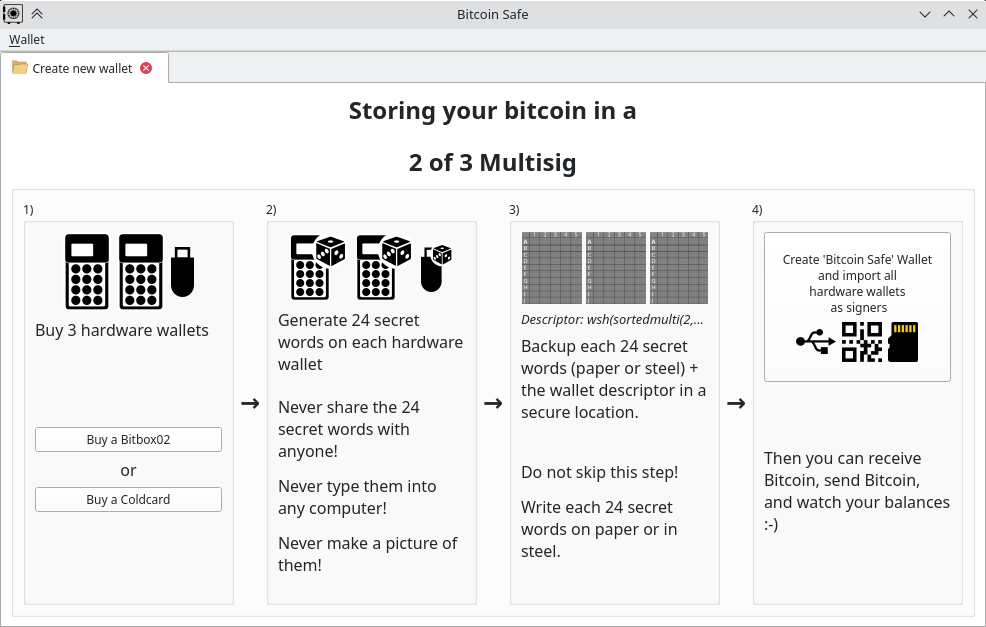
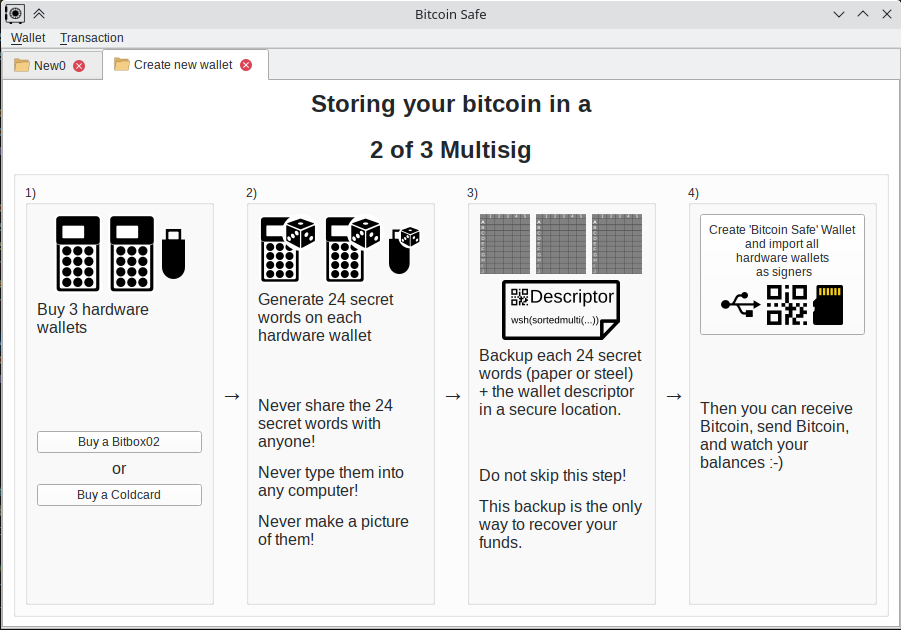
better gui

diff --git a/bitcoin_safe/main.py b/bitcoin_safe/main.py
@@ -51,7 +51,6 @@ class MainWindow(Ui_MainWindow, MessageBoxMixin):
         self.blockchain_type = BlockchainType.CompactBlockFilter
         
         self.welcome_screen = NewWalletWelcomeScreen(self.tab_wallets, network=self.network)
-        self.welcome_screen.add_new_wallet_welcome_tab()
         self.welcome_screen.signal_onclick_single_signature.connect(self.click_single_signature)
         self.welcome_screen.signal_onclick_multisig_signature.connect(self.click_multisig_signature)
         self.welcome_screen.signal_onclick_custom_signature.connect(self.click_custom_signature)
@@ -61,8 +60,9 @@ class MainWindow(Ui_MainWindow, MessageBoxMixin):
         self.signals.event_wallet_tab_added.connect(self.event_wallet_tab_added)
         self.signals.event_wallet_tab_closed.connect(self.event_wallet_tab_closed) 
     
-    
-        self.open_last_opened_wallets()
+        number_opened_wallets = self.open_last_opened_wallets()
+        if not number_opened_wallets:            
+            self.welcome_screen.add_new_wallet_welcome_tab()
         
         
     def open_tx(self, file_path=None):                   
@@ -106,8 +106,13 @@ class MainWindow(Ui_MainWindow, MessageBoxMixin):
             return
         storage = Storage()
         application_data = json.loads( storage.load(None, self.config_file)   )
+        
+        opened_wallets = False
         for file_path in application_data['last_wallet_files']:
-            self.open_wallet(file_path=file_path)
+            n = self.open_wallet(file_path=file_path) 
+            opened_wallets = opened_wallets and bool(n)
+        
+        return opened_wallets
     
     def open_wallet(self, file_path=None):
         if not file_path:
@@ -116,7 +121,10 @@ class MainWindow(Ui_MainWindow, MessageBoxMixin):
                 logger.debug("No file selected")
                 return    
 
-        logger.debug(f"Selected file: {file_path}")                
+        logger.debug(f"Selected file: {file_path}")     
+        if not os.path.isfile(file_path):
+            logger.debug(f"There is no such file: {file_path}")     
+            return
         password = None
         if Storage().has_password(file_path):
             self.ui_password_question = PasswordQuestion()
@@ -130,13 +138,15 @@ class MainWindow(Ui_MainWindow, MessageBoxMixin):
         qt_wallet = self.add_qt_wallet(wallet)        
         qt_wallet.password = password        
         qt_wallet.sync()
+        
+        return True
     
     def save_current_wallet(self):
         return self.get_qt_wallet().save()
         
 
     def click_single_signature(self):
-        add_tab_to_tabs(self.tab_wallets, self.welcome_screen.ui_explainer0.tab,  read_QIcon("file.png"), 'Create new wallet', 'Create new wallet')
+        add_tab_to_tabs(self.tab_wallets, self.welcome_screen.ui_explainer0.tab,  read_QIcon("file.png"), 'Create new wallet', 'Create new wallet', focus=True)
 
     
     def click_create_single_signature_wallet(self):
@@ -144,7 +154,7 @@ class MainWindow(Ui_MainWindow, MessageBoxMixin):
         qtwallet.wallet_settings_ui.disable_fields()
     
     def click_multisig_signature(self):
-        add_tab_to_tabs(self.tab_wallets, self.welcome_screen.ui_explainer1.tab,  read_QIcon("file.png"), 'Create new wallet', 'Create new wallet')
+        add_tab_to_tabs(self.tab_wallets, self.welcome_screen.ui_explainer1.tab,  read_QIcon("file.png"), 'Create new wallet', 'Create new wallet', focus=True)
 
     def click_create_multisig_signature_wallet(self):
         qtwallet = self.next_step_after_welcome_screen((2,3))
@@ -154,7 +164,10 @@ class MainWindow(Ui_MainWindow, MessageBoxMixin):
         return self.next_step_after_welcome_screen((3,5))
         
         
-        
+
+    def new_wallet(self):                   
+        self.welcome_screen.add_new_wallet_welcome_tab()
+            
     def new_wallet_id(self) -> str:
         return 'new'+str(len(self.qt_wallets))
 

diff --git a/bitcoin_safe/gui/qt/ui_explainer1.py b/bitcoin_safe/gui/qt/ui_explainer1.py
@@ -136,18 +136,10 @@ class Ui_Form(object):
         self.label_10.setWordWrap(True)
 
 
-        add_centered_icons(["seed-plate.svg"]*3, self.groupBox_5, self.verticalLayout_4)
+        add_centered_icons(["seed-plate.svg"]*3, self.groupBox_5, self.verticalLayout_4, max_sizes=[(50,80)])
+        add_centered_icons(["descriptor.svg"], self.groupBox_5, self.verticalLayout_4, max_sizes=(200,60))
         
         
-        self.descriptor = QLabel(self.groupBox_5)
-        font = QFont()
-        font.setItalic(True)
-        font.setPointSize(10)
-        self.descriptor.setFont(font)        
-        self.descriptor.setWordWrap(True)
-        self.descriptor.setText("Descriptor: wsh(sortedmulti(2,...")
-        self.verticalLayout_4.addWidget(self.descriptor)
-
         self.verticalLayout_4.addWidget(self.label_10)
 
         self.verticalSpacer_4 = QSpacerItem(20, 18, QSizePolicy.Minimum, QSizePolicy.Expanding)
@@ -184,8 +176,8 @@ class Ui_Form(object):
 
         self.pushButton_proceed = create_button("Create 'Bitcoin Safe' Wallet\nand import all \nhardware wallets\n as signers",
                                                 ("usb.svg", "qr-code.svg", "sd-card.svg"), self.groupBox_6, self.verticalLayout_5,
-                                                max_sizes=[(40,40)]*3)
-        self.verticalSpacer_5 = QSpacerItem(20, 58, QSizePolicy.Minimum, QSizePolicy.Expanding)
+                                                max_sizes=[(40,40)]*3, button_max_height=None)
+        self.verticalSpacer_5 = QSpacerItem(20, 58, QSizePolicy.Minimum, QSizePolicy.Fixed)
 
         self.verticalLayout_5.addItem(self.verticalSpacer_5)
 
@@ -217,6 +209,16 @@ class Ui_Form(object):
 
         QMetaObject.connectSlotsByName(Form)
     # setupUi
+    
+    
+
+
+    def remove_tab(self):
+        index = self.main_tabs.indexOf(self.tab)
+        if index>=0:
+            self.main_tabs.removeTab(index)
+        
+    
 
     def retranslateUi(self, Form):
         Form.setWindowTitle(QCoreApplication.translate("Form", u"Form", None))

diff --git a/bitcoin_safe/gui/qt/util.py b/bitcoin_safe/gui/qt/util.py
@@ -112,6 +112,11 @@ class AspectRatioSvgWidget(QSvgWidget):
 
 def add_centered_icons(paths, parent, outer_layout, direction='h', alignment=Qt.AlignCenter, max_sizes=None):
     max_sizes = max_sizes if max_sizes else [(60,80) for path in paths]
+    if isinstance( max_sizes[0], (float, int)):
+        max_sizes = [max_sizes]
+    if len(paths) > 1 and len(max_sizes)==1:
+        max_sizes = max_sizes*len(paths)
+    
     svg_widgets = [AspectRatioSvgWidget(icon_path(path), *max_size)  for max_size, path in zip(max_sizes, paths)]
     add_centered(svg_widgets, parent, outer_layout, direction=direction, alignment=alignment)
     return svg_widgets
@@ -120,9 +125,10 @@ def add_centered_icons(paths, parent, outer_layout, direction='h', alignment=Qt.
 
 
 
-def create_button(text, icon_paths, parent, outer_layout, max_sizes=None):
+def create_button(text, icon_paths, parent, outer_layout, max_sizes=None, button_max_height=200):
         button = QPushButton(parent)
-        button.setMaximumHeight(200)
+        if button_max_height:
+            button.setMaximumHeight(button_max_height)
         # Set the vertical size policy of the button to Expanding
         size_policy = button.sizePolicy()
         size_policy.setVerticalPolicy(size_policy.Expanding)

diff --git a/bitcoin_safe/gui/qt/ui_explainer0.py b/bitcoin_safe/gui/qt/ui_explainer0.py
@@ -186,12 +186,12 @@ class Ui_Form(object):
 
         self.pushButton_proceed = create_button("Create 'Bitcoin Safe' Wallet\nand import the \nhardware wallet\n as the signer",
                                                 ("usb.svg", "qr-code.svg", "sd-card.svg"), self.groupBox_6, self.verticalLayout_5,
-                                                max_sizes=[(40,40)]*3)
+                                                max_sizes=[(40,40)]*3, button_max_height=None)
 
 
         # self.verticalLayout_5.addWidget(self.pushButton_proceed)
 
-        self.verticalSpacer_5 = QSpacerItem(20, 58, QSizePolicy.Minimum, QSizePolicy.Expanding)
+        self.verticalSpacer_5 = QSpacerItem(20, 58, QSizePolicy.Minimum, QSizePolicy.Fixed)
 
         self.verticalLayout_5.addItem(self.verticalSpacer_5)
 

diff --git a/bitcoin_safe/wallet.py b/bitcoin_safe/wallet.py
@@ -651,7 +651,7 @@ class Wallet():
         for tx in self.get_list_transactions():
             for input in tx.transaction.input():
                 out_point = OutPoint.from_bdk_outpoint(input.previous_output)
-                if out_point in hash_outpoint_to_address:
+                if hash(out_point) in hash_outpoint_to_address:
                     address = hash_outpoint_to_address[hash(out_point)]
                     if address not in send: 
                         send[address] = []

diff --git a/bitcoin_safe/gui/qt/new_wallet_welcome_screen.py b/bitcoin_safe/gui/qt/new_wallet_welcome_screen.py
@@ -41,7 +41,7 @@ class NewWalletWelcomeScreen():
         
     
     def add_new_wallet_welcome_tab(self):
-        add_tab_to_tabs(self.main_tabs, self.tab,  read_QIcon("file.png"), 'Create new wallet', 'Create new wallet')
+        add_tab_to_tabs(self.main_tabs, self.tab,  read_QIcon("file.png"), 'Create new wallet', 'Create new wallet', focus=True)
 
     
     def create_ui_explainer0(self):

diff --git a/bitcoin_safe/gui/qt/ui_tx.py b/bitcoin_safe/gui/qt/ui_tx.py
@@ -364,7 +364,7 @@ class UITX_Viewer():
         
         
         self.lower_widget = QWidget(self.main_widget)
-        self.lower_widget.setMaximumHeight(250)
+        self.lower_widget.setMaximumHeight(220)
         self.main_widget_layout.addWidget(self.lower_widget)
         self.lower_widget_layout = QHBoxLayout(self.lower_widget)
         

diff --git a/bitcoin_safe/qr.py b/bitcoin_safe/qr.py
@@ -6,7 +6,7 @@ def create_psbt_qr(psbt:bdk.PartiallySignedTransaction):
 
     qr = qrcode.QRCode(
         version=1,
-        error_correction=qrcode.constants.ERROR_CORRECT_L,
+        error_correction=qrcode.constants.ERROR_CORRECT_M,
         box_size=10,
         border=4, 
     )
